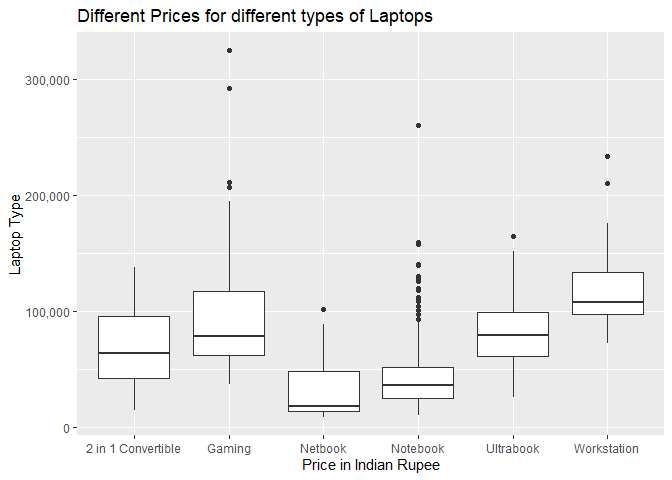
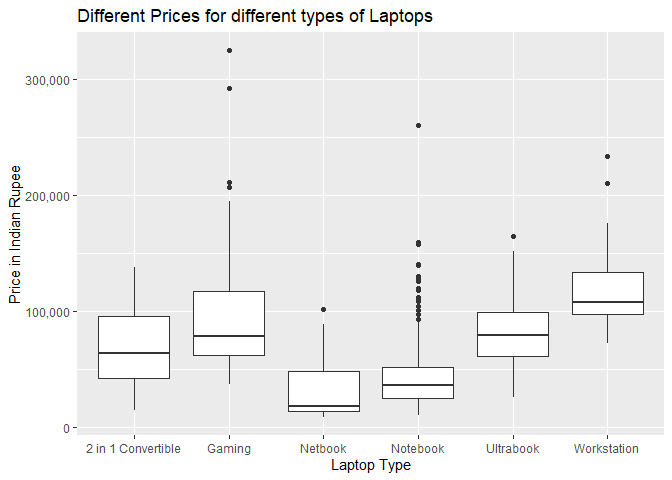
Fixed Axis of second graphic

Changed region(s): [[0.4375, 0.9375, 0.6562, 1.0], [0.0, 0.3438, 0.0312, 0.625]]

diff --git a/Projects/Jingyi-L/SamiPhoenix.md b/Projects/Jingyi-L/SamiPhoenix.md
@@ -164,8 +164,8 @@ so instead I drew them after each other.
       ggplot(aes(x = TypeName, y = Price)) +
       geom_boxplot() +
       scale_y_continuous(labels = label_comma()) +
-      labs(x = "Price in Indian Rupee",
-           y = "Laptop Type",
+      labs(x = "Laptop Type",
+           y = "Price in Indian Rupee",
            title = "Different Prices for different types of Laptops")
 
 ![](SamiPhoenix_files/figure-markdown_strict/Visualisation-2.png)